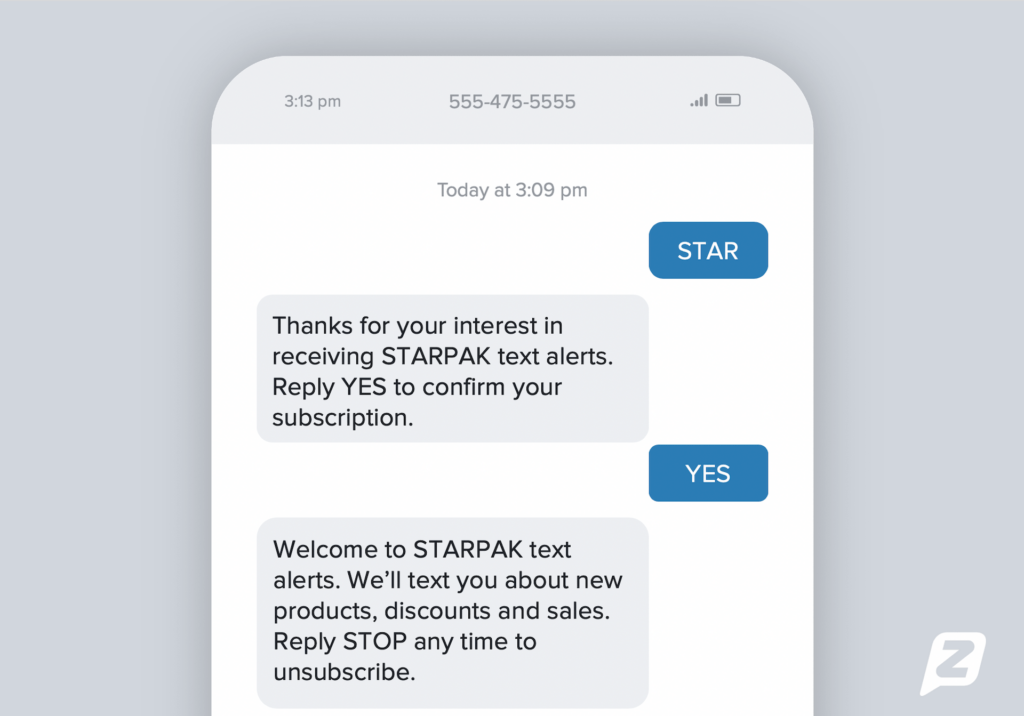
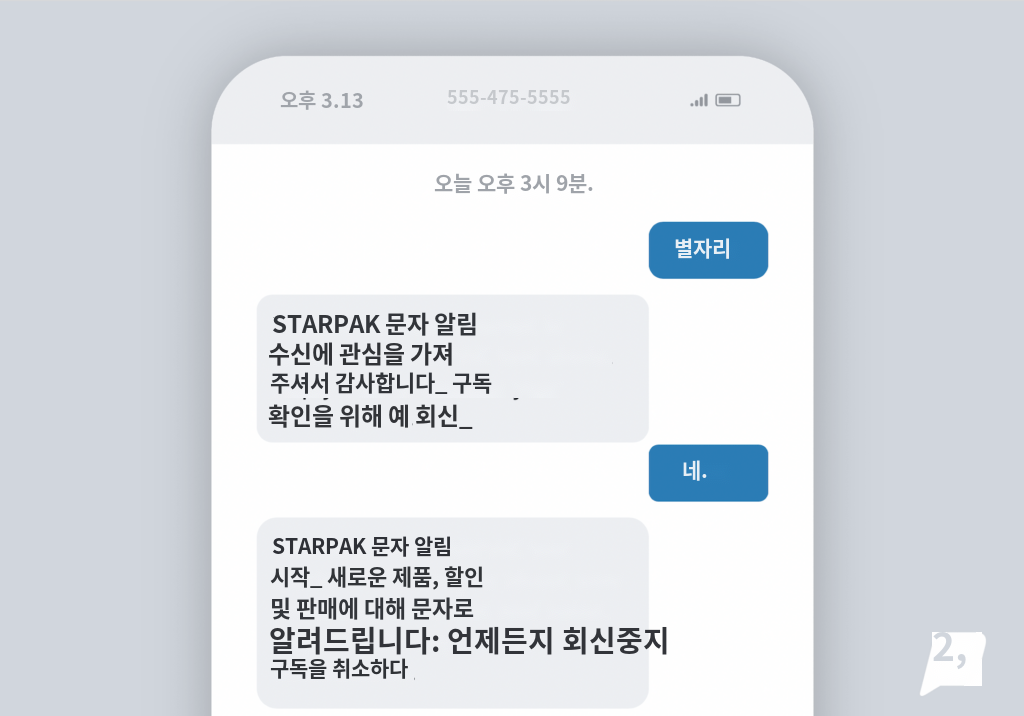
Comment

diff --git a/TEST_JW/test.py b/TEST_JW/test.py
@@ -17,7 +17,7 @@ import textwrap
 # Press Double Shift to search everywhere for classes, files, tool windows, actions, and settings.
 
 # 이미지 파일 경로
-file_path = r'phone.png'
+file_path = r'airport-sign-set-vector-illustration-260nw-403667989.jpg'
 img = cv2.imread(file_path, cv2.IMREAD_COLOR)
 
 # secret key 로 집어넣어야함
@@ -143,7 +143,7 @@ def sum_box(box_list, ttext_list, sorted_index):
         for x in text_num:
             start = bbox_list[x][1]
             later = bbox_list[x+1][0]
-            t= 13
+            t= 20
             if start[0] - t <= later[0] <= start[0] + t and start[1] -t <= later[1] <= start[1] +t:
                 bbox_list[x] = [bbox_list[x][0],bbox_list[x+1][1],bbox_list[x+1][2],bbox_list[x][3]]
                 text_list[x] = text_list[x] + ' ' +text_list[x+1]
@@ -173,7 +173,6 @@ def jaegi(bbox_list, text_list, x, z):
             for x in range(len(start_index)-1):
                 len_index.append(y.index(start_index[x+1])-y.index(start_index[x])+1)
             len_index.append(len(y[y.index(start_index[-1]):])+1)
-        print(y)
         return text_list, change_start_index, len_index
     elif bbox_list[x-1][0][0] - t <= bbox_list[x][0][0] <= bbox_list[x-1][0][0] + t\
             and bbox_list[x][0][1] - t <= bbox_list[x-1][3][1] <= bbox_list[x][0][1] + t:
@@ -227,24 +226,25 @@ def split_text(tranlated_texts, change_start_index, len_index):
     if change_start_index == []:
         pass
     else:
+        s = 0
         for idx, x in enumerate(change_start_index):
-            line = round (len(tranlated_texts[x]) / len_index[idx])
+            line = round (len(tranlated_texts[x+s]) / len_index[idx])
             # print(type(tranlated_texts[x]))
-            print(line, type(line) )
+            # print(line, type(line) )
             # print(len_index[idx], type(len_index[idx]))
-            print('line :', line)
-            split_word = textwrap.wrap(tranlated_texts[x], line)
+            # print('line :', line)
+            split_word = textwrap.wrap(tranlated_texts[x+s], line)
+
             if len(split_word) != len_index[idx]:
                 split_word [-2] = split_word[-2] + split_word[-1]
                 del split_word[-1]
             else:
                 pass
-
-            tranlated_texts.remove(tranlated_texts[x])
+            tranlated_texts.remove(tranlated_texts[x+s])
+            s -= 1
             for k in split_word:
-                j = change_start_index[idx]
-                tranlated_texts.insert(j,k)
-                j += 1
+                tranlated_texts.insert(change_start_index[idx] + s+1,k)
+                s += 1
     return tranlated_texts
 
 
@@ -254,10 +254,10 @@ def split_text(tranlated_texts, change_start_index, len_index):
 
 
 def cut_image(img, bbox):
-    x_min = bbox[0, 0]
-    x_max = bbox[1, 0]
-    y_min = bbox[0, 1]
-    y_max = bbox[2, 1]
+    x_min = int(bbox[0, 0])
+    x_max = int(bbox[1, 0])
+    y_min = int(bbox[0, 1])
+    y_max = int(bbox[2, 1])
 
     img = img[y_min:y_max, x_min:x_max]
 
@@ -286,11 +286,11 @@ def mask_image(img2):
     return mask
 
 
-def change_original(masked_img, bbox):
-    x_min = bbox[0, 0]
-    x_max = bbox[1, 0]
-    y_min = bbox[0, 1]
-    y_max = bbox[2, 1]
+def change_original(img, masked_img, bbox):
+    x_min = int(bbox[0, 0])
+    x_max = int(bbox[1, 0])
+    y_min = int(bbox[0, 1])
+    y_max = int(bbox[2, 1])
 
     img[y_min:y_max, x_min:x_max] =  masked_img
     return img
@@ -304,26 +304,79 @@ def rgb(img):
     if flat_list.count(0) > len(flat_list)/2:
         return 0
 
-def rewrite(tranlated_texts ,bbox_list, color, index):
-    # 폰트( 구글 폰트에서 이용가능 ) , 폰트크기
+# def rewrite(tranlated_texts ,bbox_list, color, index):
+#     # 폰트( 구글 폰트에서 이용가능 ) , 폰트크기
+#
+#     image_path = 'output_inpainting'
+#     img = Image.open(f"{image_path}/{file_path}")
+#     image_editable = ImageDraw.Draw(img)
+#
+#     # (x, y ) , ( 237, 230, 211) 색감
+#     bbox_hi = []
+#     for bbox in bbox_list:
+#         bbox_hi.append(bbox[2][1] - bbox[0][1])
+#
+#     bbox_hi_median = int(np.median(bbox_hi))
+#     bbox_hi_median_diff = np.abs(np.array(bbox_hi) - bbox_hi_median)  # 절대값 추출
+#     # print('bbox_hi_median',bbox_hi_median)
+#     hi_lt_idx = np.where(bbox_hi_median_diff < 10)  # 10보다 적게나는 값 idx 추출
+#
+#     # bbox_hi > array 변경
+#     bbox_hi = np.array(bbox_hi)
+#     # 차이 작은 값은 median값으로 변경 큰것은 그대로.
+#     bbox_hi[hi_lt_idx] = bbox_hi_median
+#
+#     # print('bbox_hi', bbox_hi)
+#     for idx, (bbox, color) in enumerate(zip(bbox_list, color_list)):
+#         # print('fontsize',bbox_hi[idx]-15)
+#         text = tranlated_texts[idx]
+#
+#         title_font = ImageFont.truetype("ttf/NotoSansKR-Bold.otf", np.maximum(2, int(bbox_hi[idx]) - 5))  # -가 될경우 최소 2로 설정.
+#         wi, hi = title_font.getsize(text)
+#
+#         print('bbox_hi[idx]-15', type(bbox_hi[idx] - 15))
+#
+#         print('title_font', title_font)
+#         start_x = ((bbox[0][0] + bbox[1][0]) // 2 - wi / 2)
+#         start_y = ((bbox[0][1] + bbox[2][1]) // 2 - hi / 2)
+#         image_editable.text((start_x, start_y), text, color, anchor=None, font=title_font)
+#     save_rewrite_images(img)
 
+def rewrite(tranlated_texts, bbox_list, color_list):
     image_path = 'output_inpainting'
     img = Image.open(f"{image_path}/{file_path}")
 
     image_editable = ImageDraw.Draw(img)
 
-    # (x, y ) , ( 237, 230, 211) 색감
-    for idx, bbox in enumerate(bbox_list):
-        text = tranlated_texts[idx]
-        title_font = ImageFont.truetype('ttf/NotoSansKR-Bold.otf', 1)
-        wi, _ = title_font.getsize(text)
-        # bbox_wi = bbox[1][0] - bbox[0][0]
-        bbox_hi = bbox[2][1] - bbox[1][1]
+    ### font size ###
+    bbox_hi = []
+    for bbox in bbox_list:
+        bbox_hi.append(bbox[2][1] - bbox[0][1])
 
-        font_size = decsion_font_size(bbox_hi, text)
-        title_font = ImageFont.truetype('ttf/NotoSansKR-Bold.otf', font_size)
-        result = list(map(int, color[idx][index[idx][1]]))
-        image_editable.text((bbox[0][0], bbox[0][1]), text, tuple(result), anchor = 'lt', font=title_font)
+    bbox_hi_median = int(np.median(bbox_hi))
+    bbox_hi_median_diff = np.abs(np.array(bbox_hi) - bbox_hi_median)  # 절대값 추출
+    # print('bbox_hi_median',bbox_hi_median)
+    hi_lt_idx = np.where(bbox_hi_median_diff < 10)  # 10보다 적게나는 값 idx 추출
+
+    # bbox_hi > array 변경
+    bbox_hi = np.array(bbox_hi)
+    # 차이 작은 값은 median값으로 변경 큰것은 그대로.
+    bbox_hi[hi_lt_idx] = bbox_hi_median
+
+    # print('bbox_hi', bbox_hi)
+    for idx, (bbox, color) in enumerate(zip(bbox_list, color_list)):
+        # print('fontsize',bbox_hi[idx]-15)
+        text = tranlated_texts[idx]
+
+        title_font = ImageFont.truetype("ttf/NotoSansKR-Bold.otf", np.maximum(2, int(bbox_hi[idx]) - 5))  # -가 될경우 최소 2로 설정.
+        wi, hi = title_font.getsize(text)
+
+        print('bbox_hi[idx]-15', type(bbox_hi[idx] - 15))
+
+        print('title_font', title_font)
+        start_x = ((bbox[0][0] + bbox[1][0]) // 2 - wi / 2)
+        start_y = ((bbox[0][1] + bbox[2][1]) // 2 - hi / 2)
+        image_editable.text((start_x, start_y), text, color, anchor=None, font=title_font)
 
     save_rewrite_images(img)
 
@@ -378,44 +431,77 @@ def contour_mask(mask):
         if area > 100:
             contour_pos.append(pos)
 
+def change_color(img):
+    img_gray = cv2.cvtColor(img, cv2.COLOR_BGR2GRAY) # gray 영상으로 만들기
+    ret, img_binary = cv2.threshold(img_gray, 0, 255, cv2.THRESH_OTSU) # 마스킹
+
+    if len(img_binary[img_binary > 250]) > len(img_binary[img_binary < 250]):
+        img_binary = cv2.bitwise_not(img_binary)
+
+    masked = cv2.bitwise_and(img, img, mask = img_binary)
+
+
+    b, g, r = cv2.split(masked)
+    b, g, r = int(np.mean(b[b > 0])), int(np.mean(g[g > 0])), int(np.mean(r[r > 0]))
+
+    return b,g,r
+
+
+def change_bg_color(img):
+    img_gray = cv2.cvtColor(img, cv2.COLOR_BGR2GRAY)  # gray 영상으로 만들기
+    ret, img_binary = cv2.threshold(img_gray, 0, 255, cv2.THRESH_OTSU)  # 마스킹
+    bg_binary = cv2.bitwise_not(img_binary)
+
+    if len(img_binary[img_binary > 250]) > len(img_binary[img_binary < 250]):
+        bg_binary = cv2.bitwise_not(bg_binary)
+
+    masked_bg = cv2.bitwise_and(img, img, mask=bg_binary)
+
+    b, g, r = cv2.split(masked_bg)
+    b, g, r = int(np.mean(b[b > 0])), int(np.mean(g[g > 0])), int(np.mean(r[r > 0]))
+
+    a = np.ones(shape=img.shape, dtype=np.uint8)
+    b = a[:, :, 0] * b
+    g = a[:, :, 1] * g
+    r = a[:, :, 2] * r
+
+    return b, g, r
 # Press the green button in the gutter to run the script.
 if __name__ == '__main__':
     bbox_list, text_list = easy_ocr_result(img)
-    # print('bbox_list: ', len(bbox_list))
-    # print('Text_list :', text_list)
-    # print('(len)bbox_list', len(bbox_list))
     sorted_index = array_box(bbox_list, text_list)
-
+    print(' len - bbox_list : ', len(bbox_list))
     bbox_list, text_list = sum_box(bbox_list, text_list, sorted_index)
-    # print(text_list)
-    # print('bbox_list: ', len(bbox_list))
-    # print('Text_list :', text_list)
-    # print('(len)bbox_list', len(bbox_list))
-    # print('bbox _ len : ', len(bbox_list))
+    print(' len - bbox_list : ', len(bbox_list))
     text_list, change_start_index, len_index = jaegi(bbox_list, text_list, x, z)
-    # print('text_list :', text_list)
-    print('change_start_index :', change_start_index)
-    print('len_index :', len_index)
-
-
     tranlated_texts: List[str] = translate_texts(texts=text_list, type='naver')
-    print(f'Tranlated_texts : {tranlated_texts}')
-
+    # print(f'Tranlated_texts : {tranlated_texts}')
     tranlated_texts = split_text(tranlated_texts, change_start_index, len_index)
-    # color_list = []
-    # reverse_sorted_index = []
-    # for bbox in bbox_list:
-    #     img_cut = cut_image(img, bbox)
-    #     clt = clt_(img_cut)
-    #     hist = centroid_histogram(clt)
-    #     color_list.append(clt.cluster_centers_)
-    #     reverse_index = (-hist).argsort()
-    #     reverse_sorted_index.append(reverse_index)
-    #
-    #     mask = mask_image(img_cut)
-    #     masked_img = cv2.inpaint(img_cut, mask, 3, cv2.INPAINT_TELEA)
-    #     img = change_original(masked_img, bbox)
+    print(tranlated_texts)
+    # print(tranlated_texts)
 
-    # save_inpainting_images()
-    # rewrite(tranlated_texts,bbox_list,color_list, reverse_sorted_index)
+    color_list = []
+    # reverse_sorted_index = []
+    for bbox in bbox_list:
+        img_cut = cut_image(img, bbox)
+        color_list.append(change_color(img_cut))
+        b, g, r = change_bg_color(img_cut)
+        # print(b.shape)
+        img_cut[:, :, 0] = b
+        img_cut[:, :, 1] = g
+        img_cut[:, :, 2] = r
+        # version _ 1
+        # clt = clt_(img_cut)
+        # hist = centroid_histogram(clt)
+        # color_list.append(clt.cluster_centers_)
+        # reverse_index = (-hist).argsort()
+        # reverse_sorted_index.append(reverse_index)
+        #
+        # mask = mask_image(img_cut)
+        # masked_img = cv2.inpaint(img_cut, mask, 3, cv2.INPAINT_TELEA)
+        img = change_original(img,img_cut, bbox)
+
+    save_inpainting_images()
+
+    rewrite(tranlated_texts,bbox_list,color_list)
 
